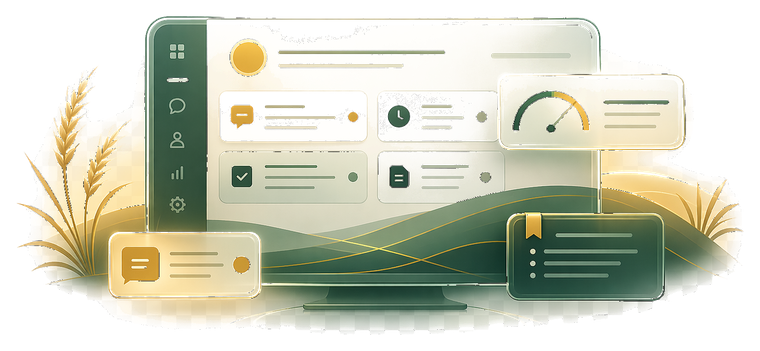
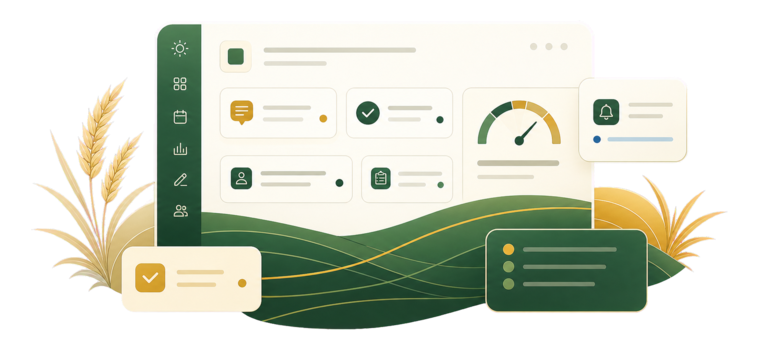
Refresh PrairieClassroom app brand assets

diff --git a/apps/web/src/components/OnboardingOverlay.tsx b/apps/web/src/components/OnboardingOverlay.tsx
@@ -6,36 +6,55 @@ interface Props {
   onDismiss: () => void;
 }
 
-const STEPS = [
+interface OnboardingStep {
+  title: string;
+  description: string;
+  group: string;
+  visualSrc: string;
+  visualWidth: number;
+  visualHeight: number;
+}
+
+const STEPS: OnboardingStep[] = [
   {
     title: "Your morning starts here",
     description: "The Today dashboard shows what needs attention first — pending messages, follow-up debt, yesterday's plan, and today's complexity forecast. Start every session here.",
     group: "Today",
     visualSrc: "/brand/onboarding-morning-command.png",
+    visualWidth: 760,
+    visualHeight: 351,
   },
   {
     title: "Prep materials for tomorrow",
     description: "Use Differentiate to create adapted versions of lesson artifacts for EAL, chunked, and extension groups. Language Tools simplifies text and builds vocabulary cards.",
     group: "Prep",
     visualSrc: "/brand/workflow-prep.png",
+    visualWidth: 320,
+    visualHeight: 320,
   },
   {
     title: "Plan and log your day",
     description: "Reflect on today's wins and challenges to generate tomorrow's support plan. Log interventions, generate EA briefings, forecast complexity, or prep a substitute packet.",
     group: "Daily Ops",
     visualSrc: "/brand/workflow-ops.png",
+    visualWidth: 320,
+    visualHeight: 320,
   },
   {
     title: "Review and communicate",
     description: "Draft family messages in any language — every message requires your explicit approval before copying. Track support patterns across students over time.",
     group: "Review",
     visualSrc: "/brand/workflow-review.png",
+    visualWidth: 320,
+    visualHeight: 320,
   },
   {
     title: "Navigate with your keyboard",
     description: "Press 1–0 to jump directly to any panel. Use the classroom pill in the header to switch classrooms. Protected classrooms will prompt for an access code that's saved in your browser.",
     group: "Quick tips",
     visualSrc: "/brand/prairieclassroom-mark.png",
+    visualWidth: 512,
+    visualHeight: 512,
   },
 ];
 
@@ -71,8 +90,8 @@ export default function OnboardingOverlay({ onDismiss }: Props) {
           className="onboarding-visual"
           src={current.visualSrc}
           alt=""
-          width="760"
-          height="351"
+          width={current.visualWidth}
+          height={current.visualHeight}
           aria-hidden="true"
         />
 

diff --git a/apps/web/src/components/OnboardingOverlay.css b/apps/web/src/components/OnboardingOverlay.css
@@ -34,7 +34,8 @@
 
 .onboarding-visual {
   display: block;
-  width: min(100%, 280px);
+  width: auto;
+  max-width: min(100%, 280px);
   height: auto;
   max-height: 132px;
   object-fit: contain;
